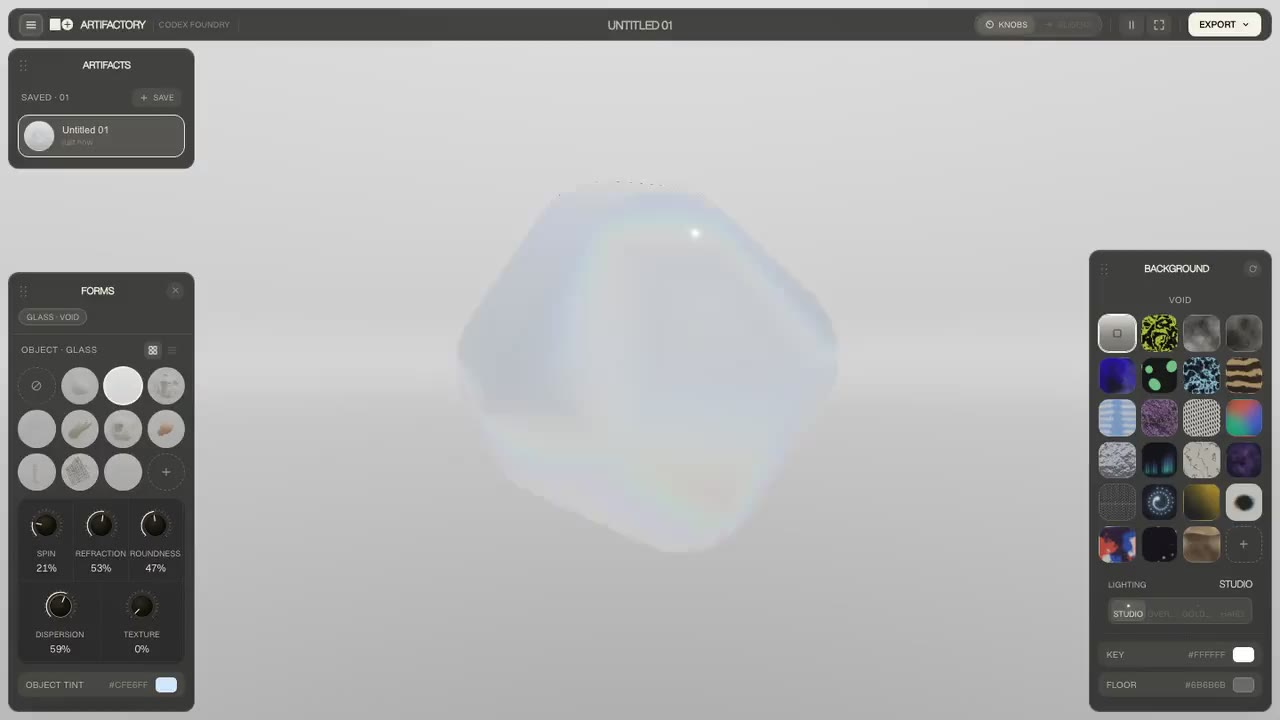
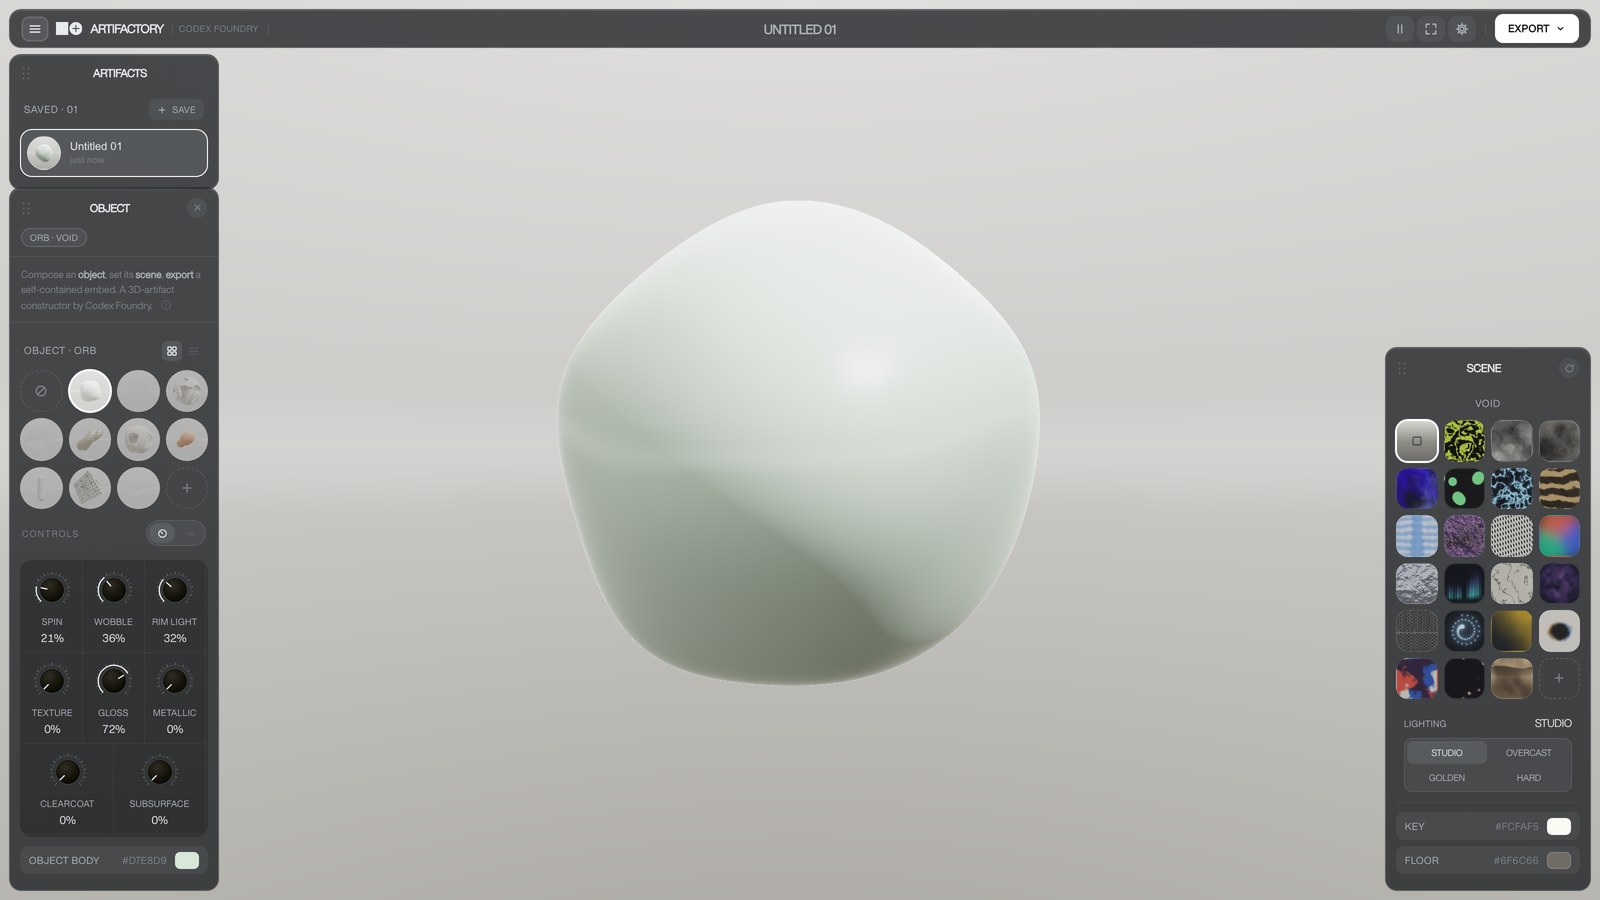
Wordmark to Diatype; live-site thumbnails for Flora + Artifactory; ground to #252627
Wordmark now sets in Diatype, the same grotesk as the labels and UI - the name
in the house sans rather than a display serif. Every display-serif attempt (Times
Now, Instrument, Fraunces) read as a costume on top of a grotesk system. Dropping
it gives the real two-voice split: sans carries the name and the labels, Newsreader
carries the sentences. 400 weight, -.03em tracking so the mark reads as one shape.
Fraunces and Redaction faces both removed - Redaction only existed as the wordmark
fallback, now moot.

Flora and Artifactory thumbnails are fresh captures of their live sites -
florafauna.ai hero and artifactory.pages.dev app - as static 1600x900 JPGs,
replacing the video covers. Flora's cookie banner was stripped from the DOM before
the shot, not clicked. Orphaned artifactory cover.mp4 removed.

Ground #272727 to #252627 per request - one point of blue over red, still below the
navy threshold so it reads neutral, a hair cooler than pure R=G=B.

diff --git a/index.html b/index.html
@@ -24,21 +24,15 @@
 <meta name="twitter:description" content="Brand + product designer in New York with 8 years across culture + venture: consumer media, creative tools, deep tech." />
 <meta name="twitter:image" content="https://renaise.com/assets/og.jpg" />
 <style>
-  /* One face for everything: Diatype (Dinamo). Redaction is the wordmark alone. */
+  /* Diatype (Dinamo) carries the wordmark, the labels, and the whole UI. */
   @font-face { font-family:"Diatype Variable"; src:url("/fonts/Cargo-DiatypePlusVariable.woff2") format("woff2"); font-weight:100 900; font-display:swap; }
-  /* Redaction (Kaphar/Betts, MCKL — OFL), self-hosted — kept as the wordmark fallback face */
-  @font-face { font-family:"Redaction"; src:url("/fonts/Redaction-Regular.woff2") format("woff2"); font-weight:400; font-display:swap; }
-  /* Two serifs, not one, because the two jobs are genuinely different. A display face
-     drawn for 11rem has strokes too thin to survive at 13px; a text face drawn for 13px
-     looks blunt and undramatic at 11rem. Times Now was doing both and failing at the
-     small end, which is what made the ledger read awkward.
-     Fraunces (OFL) — wordmark only. Flared stems and a genuinely idiosyncratic drawing,
-     which is the point: the previous display face was another competent Times variant, and
-     a competent Times variant is exactly what a wordmark cannot be. Variable on opsz and
-     wght, plus a WONK axis that swaps in the more eccentric letterforms.
+  /* One serif, one job. The wordmark is now set in Diatype — the same sans as the labels —
+     so the only serif left on the page is the running copy, and it does not need a second
+     display cut. Every display-serif experiment (Times Now, Instrument, Fraunces) read as
+     a costume on top of a grotesk system; dropping it lets the sans carry the name and the
+     serif carry the sentences, which is the actual two-voice split the page wanted.
      Newsreader (Production Type, OFL) — text serif with a real optical-size axis, so the
      browser thins the strokes as the size climbs. All running copy. */
-  @font-face { font-family:"Fraunces"; src:url("/fonts/Fraunces-Variable.woff2") format("woff2"); font-weight:100 900; font-display:swap; }
   @font-face { font-family:"Newsreader"; src:url("/fonts/Newsreader-Variable.woff2") format("woff2"); font-weight:200 800; font-display:swap; }
 
   /* Flat grey page, mid-grey type. One ink, three alphas — mid grey has little room to
@@ -57,28 +51,27 @@
        card's top all read from this, so the buffer is identical on every side. */
     --gut:1.4rem;
     --sans:"Diatype Variable","Helvetica Neue",Helvetica,Arial,sans-serif;
-    --display:"Fraunces","Redaction","Times New Roman",Georgia,serif;
     --serif:"Newsreader","Iowan Old Style",Georgia,"Times New Roman",serif;
   }
   /* Dark is the same construction inverted: one ink, same alpha steps, flat page.
-     Fully neutral: ink #b0b0b0 on grey #272727, both R=G=B. Any blue in the bg, even 2
-     points, reads as navy across a full page — so there is none. The ground has been walked
-     down twice: #222 read as an absence rather than a colour, #303030 overcorrected and went
-     milky under the plates, #272727 sits between them and still reads as grey rather than
-     black. Ink holds at #b0b0b0, so the darker ground only buys contrast back — body sits
-     at 5.9:1.
+     Ink #b0b0b0 on grey #252627. The ground carries one point of blue over red (R=37 G=38
+     B=39) — chosen deliberately at that hex; a single point stays below the threshold where
+     a flat field tips into navy, so it still reads as neutral grey while sitting a hair
+     cooler than a pure R=G=B. Walked down from #303030 (which went milky under the plates)
+     past #272727 to here. Ink holds at #b0b0b0, so the dark ground only buys contrast back —
+     body sits at ~5.9:1.
      --tile is unchanged — the plates are dark in both themes by design. */
   :root[data-theme="dark"]{
     --ink:#b0b0b0;
     --sw2:rgba(176,176,176,0.90); --sw3:rgba(176,176,176,0.72); --sw4:rgba(176,176,176,0.58);
-    --accent:#ffffff; --bg1:#272727; --line:rgba(176,176,176,0.42);
+    --accent:#ffffff; --bg1:#252627; --line:rgba(176,176,176,0.42);
   }
   /* No stored choice: follow the OS. An explicit [data-theme] always wins over this. */
   @media(prefers-color-scheme:dark){
     :root:not([data-theme]){
       --ink:#b0b0b0;
       --sw2:rgba(176,176,176,0.90); --sw3:rgba(176,176,176,0.72); --sw4:rgba(176,176,176,0.58);
-      --accent:#ffffff; --bg1:#272727; --line:rgba(176,176,176,0.42);
+      --accent:#ffffff; --bg1:#252627; --line:rgba(176,176,176,0.42);
     }
   }
   *{box-sizing:border-box;}
@@ -115,15 +108,14 @@
   .statement h2{animation:settle .9s cubic-bezier(.2,.7,.2,1) .15s both;}
   @media(prefers-reduced-motion:reduce){ .statement h2{animation:none;} }
 
-  /* opsz is pinned to 144 rather than left on auto: the clamp means the wordmark can render
-     anywhere from 3.6 to 11rem, and auto would hand the small end a chunkier text cut, so
-     the mark would change shape between phone and desktop. A wordmark holds one drawing.
-     WONK 1 keeps the flared, eccentric alternates — the whole reason for this face. 300
-     because Fraunces at display opsz is already generous; 400 closes the counters up. */
-  h1{font-family:var(--display);font-weight:300;
-    font-variation-settings:"opsz" 144,"SOFT" 0,"WONK" 1;
-    font-size:clamp(3.6rem,12vw,11rem);line-height:.92;color:var(--sw4);
-    letter-spacing:-.015em;margin:0;text-transform:none;white-space:nowrap;
+  /* Wordmark in Diatype, the same grotesk as the labels and UI — the name set in the house
+     sans instead of a display serif. At 11rem a grotesk wants weight and tight tracking, the
+     opposite of the serif it replaces: 400 gives the strokes body without going bold, and
+     -.03em pulls the letters into one mass so the mark reads as a single shape rather than
+     seven capitals in a row. */
+  h1{font-family:var(--sans);font-weight:400;
+    font-size:clamp(3.6rem,12vw,11rem);line-height:.9;color:var(--sw4);
+    letter-spacing:-.03em;margin:0;text-transform:none;white-space:nowrap;
     width:max-content;max-width:none;}
   h1 a{color:inherit;}
   h1 a:hover{color:var(--accent);}
@@ -366,7 +358,7 @@ document.documentElement.className+=' js';
     <section class="card" id="work">
       <div class="layout">
       <a class="proj" data-slug="artifactory" href="https://artifactory.pages.dev" target="_blank" rel="noopener">
-        <div class="media"><video class="bg" src="/stage/artifactory/cover.mp4" autoplay muted loop playsinline preload="metadata"></video><video class="cover fill" data-smooth src="/stage/artifactory/cover.mp4" autoplay muted loop playsinline preload="auto" poster="/stage/artifactory/cover.jpg"></video><span class="tag">Product</span></div>
+        <div class="media"><img class="bg" src="/stage/artifactory/cover.jpg" alt="" aria-hidden="true"><img class="cover fill" src="/stage/artifactory/cover.jpg" alt="Artifactory"><span class="tag">Product</span></div>
         <div class="cols"><div class="c0"><b>ARTIFACTORY</b><span class="yr">2026</span></div><div class="c1"><span class="t">Primitive Design Environment</span><br><span class="m">Design + Build</span><span class="d">Preset library, live tuning, self-contained embed export.</span></div></div>
       </a>
       <a class="proj" data-slug="soot" href="https://studioartifice.com/work/soot/" target="_blank" rel="noopener">
@@ -378,7 +370,7 @@ document.documentElement.className+=' js';
         <div class="cols"><div class="c0"><b>The Artifact Index</b><span class="yr">2026</span></div><div class="c1"><span class="t">A Structured, Relational Dataset of Creative Process</span><br><span class="m">Creative Director</span><span class="d">Discover, connect, locate, archive. Connected through the work.</span></div></div>
       </a>
       <a class="proj" data-slug="flora" href="https://studioartifice.com/work/flora/" target="_blank" rel="noopener">
-        <div class="media"><video class="bg" src="https://studioartifice.com/stage/flora/cover.mp4" autoplay muted loop playsinline preload="metadata"></video><video class="cover" src="https://studioartifice.com/stage/flora/cover.mp4" autoplay muted loop playsinline preload="metadata" poster="https://studioartifice.com/stage/flora/cover.png"></video><span class="tag">Product</span></div>
+        <div class="media"><img class="bg" src="/stage/flora/cover.jpg" alt="" aria-hidden="true"><img class="cover fill" src="/stage/flora/cover.jpg" alt="FLORA"><span class="tag">Product</span></div>
         <div class="cols"><div class="c0"><b>FLORA</b><span class="yr">2024</span></div><div class="c1"><span class="t">Connecting Creative Systems</span><br><span class="m">Founding Designer</span><span class="d">A node-based canvas for creatives and beyond.</span></div></div>
       </a>
       <a class="proj" data-slug="osmosis" href="https://studioartifice.com/work/osmosis/" target="_blank" rel="noopener">